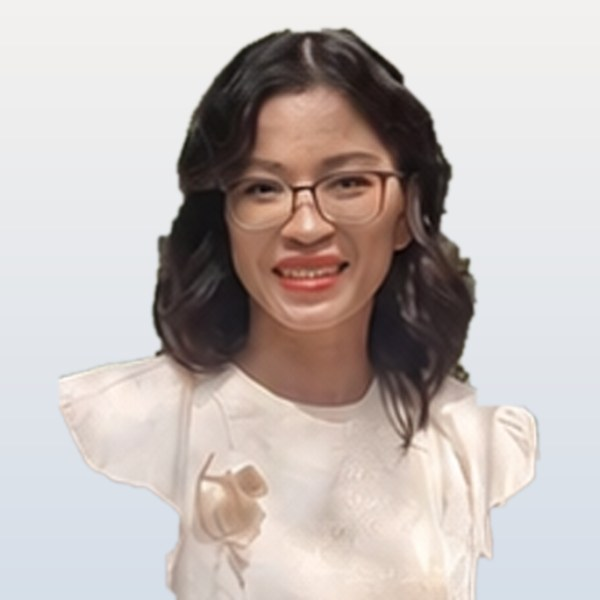
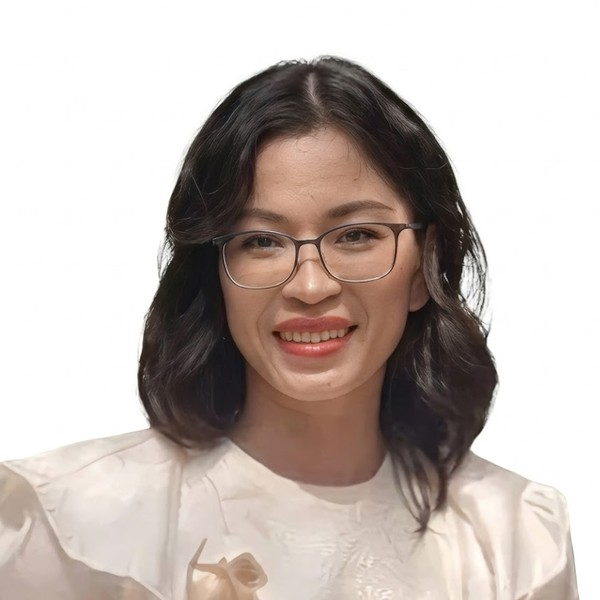
Ảnh mới Chủ tịch Trần Hoàng Phương
Claude-Session: https://claude.ai/code/session_01Nv9HEvAiz6hbj6HU9Kr1Xs

diff --git a/zh/index.html b/zh/index.html
@@ -514,7 +514,7 @@ footer .flogo{height:34px;width:auto;filter:brightness(0) invert(1);margin-botto
 <!--LEADERS--><section id="ban-lanh-dao"><div class="wrap">
   <div class="title"><h2>管理团队</h2></div>
   <article class="leader chair">
-    <figure><img src="/lanh-dao/tran-hoang-phuong.jpg" alt="陈黄芳 女士（Tran Hoang Phuong）" width="600" height="600" loading="lazy"></figure>
+    <figure><img src="/lanh-dao/tran-hoang-phuong.jpg?v=2" alt="陈黄芳 女士（Tran Hoang Phuong）" width="600" height="600" loading="lazy"></figure>
     <div class="lbody"><h3>陈黄芳 女士（Tran Hoang Phuong）</h3><p class="role">董事长</p></div>
   </article>
   <article class="leader">

diff --git a/index.html b/index.html
@@ -514,7 +514,7 @@ footer .flogo{height:34px;width:auto;filter:brightness(0) invert(1);margin-botto
 <!--LEADERS--><section id="ban-lanh-dao"><div class="wrap">
   <div class="title"><h2>Ban lãnh đạo</h2></div>
   <article class="leader chair">
-    <figure><img src="/lanh-dao/tran-hoang-phuong.jpg" alt="Bà Trần Hoàng Phương" width="600" height="600" loading="lazy"></figure>
+    <figure><img src="/lanh-dao/tran-hoang-phuong.jpg?v=2" alt="Bà Trần Hoàng Phương" width="600" height="600" loading="lazy"></figure>
     <div class="lbody"><h3>Bà Trần Hoàng Phương</h3><p class="role">Chủ tịch Công ty</p></div>
   </article>
   <article class="leader">

diff --git a/en/index.html b/en/index.html
@@ -514,7 +514,7 @@ footer .flogo{height:34px;width:auto;filter:brightness(0) invert(1);margin-botto
 <!--LEADERS--><section id="ban-lanh-dao"><div class="wrap">
   <div class="title"><h2>Leadership</h2></div>
   <article class="leader chair">
-    <figure><img src="/lanh-dao/tran-hoang-phuong.jpg" alt="Ms. Tran Hoang Phuong" width="600" height="600" loading="lazy"></figure>
+    <figure><img src="/lanh-dao/tran-hoang-phuong.jpg?v=2" alt="Ms. Tran Hoang Phuong" width="600" height="600" loading="lazy"></figure>
     <div class="lbody"><h3>Ms. Tran Hoang Phuong</h3><p class="role">Chairperson</p></div>
   </article>
   <article class="leader">
